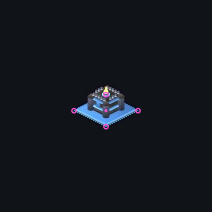
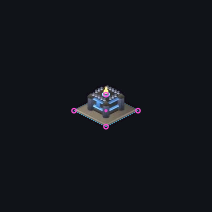
Make the foundation stone with a thin team rim, not a team-coloured slab
Review of the building-alignment pass: "The team-tinted footings are now large saturated blue pads that
dominate the base. Keep team color readable, but make it a thin trim or banner on the footing, not a full
bright slab. The ground stone should stay neutral."

That was an over-correction on my part. Tinting the whole upper course kept ownership legible but made
the largest lit surface on a tower a saturated pad, so a building read as "a blue pad with a tower on it".

plinth() and roundPlinth() now build: full-footprint STONE course, a stone step above it, and a narrow
team rim inset on the step's top face (~8% of the footing's area, proud enough to catch the key light).
The bespoke summoning-circle and thorn-grove footings got the same treatment.

Measured share of the ground-contact band (lowest 30% of the sprite) that is saturated team colour:
  14 of 21 buildings   0.0%   (plain neutral stone)
  the 7 with a rim     6.9-21.4%
  the rejected version 60%+

Team colour is still readable, which is the other half of the requirement: art-roster.test.ts requires
>=3% visible team colour per building and all 21 pass.

THIS SURFACED A REAL ART BUG the slab had been masking. scrying_obelisk's team rings had radius 8.2 while
its monolith has circumradius 8.4, so they were buried INSIDE the stone and only showed because the plinth
underneath was tinted. With the plinth neutral its visible team colour fell to 1.0% and the roster test
[…]

Changed region(s): [[0.3396, 0.4811, 0.6509, 0.5943]]

diff --git a/v2/tests/art-footing.test.ts b/v2/tests/art-footing.test.ts
@@ -1,0 +1,144 @@
+// TEAM COLOUR IS A MARKER ON THE FOUNDATION, NOT THE MATERIAL OF IT.
+//
+// Review of the building-alignment pass: "The team-tinted footings are now large saturated blue pads that
+// dominate the base. Keep team color readable, but make it a thin trim or banner on the footing, not a
+// full bright slab. The ground stone should stay neutral."
+//
+// That was a real over-correction. Making the whole upper course team-tinted kept ownership legible but
+// turned the largest lit surface on a tower into a saturated slab, so the building read as "a blue pad
+// with a tower on it". The foundation is now neutral stone with a thin team rim inset on top.
+//
+// These tests pin BOTH halves of the requirement, because either one alone can be satisfied by breaking
+// the other: the footing must be mostly neutral, AND the building must still show enough team colour to
+// tell whose it is at default zoom (the ≥3% assertion lives in `art-roster.test.ts`).
+import { describe, expect, it } from 'vitest';
+import { readFileSync, readdirSync } from 'node:fs';
+import { join } from 'node:path';
+import { rasterise } from '../art/raster2';
+import { ROSTER_BUILDINGS } from '../art/roster';
+import { TERRAIN_MATCH_PITCH, TERRAIN_MATCH_YAW } from '../art/bake-camera';
+
+const ROOT = join(__dirname, '..');
+const SIZE = 120;
+/** A strong team-blue, so any tinted footing is unmistakable. */
+const TEAM: [number, number, number] = [79, 157, 255];
+
+/** Declared footprints, so the test only covers buildings (mana_node is a map resource). */
+function buildingIds(): string[] {
+  const ids: string[] = [];
+  for (const f of readdirSync(join(ROOT, 'data/buildings'))) {
+    ids.push((JSON.parse(readFileSync(join(ROOT, 'data/buildings', f), 'utf8')) as { id: string }).id);
+  }
+  return ids.sort();
+}
+
+interface FootingStats {
+  /** Share of the footing band's pixels that read as saturated team colour. */
+  teamPct: number;
+  /** Pixels in the analysed band, so a degenerate render cannot pass vacuously. */
+  pixels: number;
+}
+
+/**
+ * Measure the footing band: the lowest 30% of the sprite, which is the ground-contact courses.
+ *
+ * Measuring the whole sprite would be wrong — a building's team bands sit high on the shaft, and those are
+ * exactly what must stay. The question here is only what colour the GROUND CONTACT is.
+ */
+function footingStats(asm: (typeof ROSTER_BUILDINGS)[string]): FootingStats {
+  const r = rasterise(asm, {
+    width: SIZE,
+    height: SIZE,
+    yaw: TERRAIN_MATCH_YAW,
+    pitch: TERRAIN_MATCH_PITCH,
+    scale: 1,
+    offsetX: 0,
+    offsetY: 0,
+    exposure: 1,
+    ss: 1,
+    outline: false,
+    shadow: false,
+    teamColor: TEAM,
+  });
+  let minY = Infinity;
+  let maxY = -Infinity;
+  for (let y = 0; y < SIZE; y++) {
+    for (let x = 0; x < SIZE; x++) {
+      if (r.rgba[(y * SIZE + x) * 4 + 3]! > 200) {
+        if (y < minY) minY = y;
+        if (y > maxY) maxY = y;
+      }
+    }
+  }
+  const bandTop = Math.round(maxY - (maxY - minY) * 0.3);
+  let team = 0;
+  let pixels = 0;
+  for (let y = bandTop; y <= maxY; y++) {
+    for (let x = 0; x < SIZE; x++) {
+      const i = (y * SIZE + x) * 4;
+      if (r.rgba[i + 3]! < 200) continue;
+      pixels++;
+      const R = r.rgba[i]!;
+      const G = r.rgba[i + 1]!;
+      const B = r.rgba[i + 2]!;
+      const mx = Math.max(R, G, B);
+      const mn = Math.min(R, G, B);
+      const sat = mx === 0 ? 0 : (mx - mn) / mx;
+      // Blue-dominant AND saturated: a neutral stone tinted by the team is not blue-dominant.
+      if (B > R + 18 && B > G + 8 && sat > 0.3) team++;
+    }
+  }
+  return { teamPct: (team / Math.max(1, pixels)) * 100, pixels };
+}
+
+describe('team colour is a trim on the foundation, not a slab', () => {
+  const ids = buildingIds();
+
+  it.each(ids)('%s: ground contact is neutral stone, not a saturated pad', (id) => {
+    const asm = ROSTER_BUILDINGS[id];
+    expect(asm, `${id} has no art`).toBeDefined();
+    const s = footingStats(asm!);
+    // A sanity floor: if the band rendered almost nothing, the ratio would be meaningless.
+    expect(s.pixels, `${id}: footing band is empty, the ratio is not measurable`).toBeGreaterThan(32);
+    /**
+     * 25% is the line between "a rim" and "a slab".
+     *
+     * A thin rim inset on the footing measures 7-21% of this band (the band includes the building's own
+     * body above the rim, which is neutral). Tinting the whole upper course measured 60%+ and is what the
+     * review rejected. Anything above a quarter of the ground contact being saturated team colour is the
+     * regression this guards.
+     */
+    expect(
+      s.teamPct,
+      `${id}: ${s.teamPct.toFixed(1)}% of its ground-contact pixels are saturated team colour — that is a slab, not a rim`,
+    ).toBeLessThanOrEqual(25);
+  });
+
+  it('the footing helpers do not tint their structural courses', () => {
+    // A structural read of the same rule: the source must not paint the full-footprint course with a team
+    // material. This catches a regression even if a future shape change happens to hide the tint.
+    const src = readFileSync(join(ROOT, 'art/shapes.ts'), 'utf8');
+    const plinthStart = src.indexOf('export function plinth(');
+    const plinthEnd = src.indexOf('export function roundPlinth(');
+    const roundEnd = src.indexOf('/**\n * A splayed tripod');
+    expect(plinthStart, 'plinth() not found').toBeGreaterThan(-1);
+    expect(plinthEnd, 'roundPlinth() not found').toBeGreaterThan(-1);
+    expect(roundEnd, 'end of roundPlinth() not found').toBeGreaterThan(-1);
+
+    for (const [name, body] of [
+      ['plinth', src.slice(plinthStart, plinthEnd)],
+      ['roundPlinth', src.slice(plinthEnd, roundEnd)],
+    ] as const) {
+      // The FULL-footprint course (`bbox(w, w, ...)`) must be stone. Only the inset course may be team.
+      const fullFootprintLines = body
+        .split('\n')
+        .filter((l) => /bbox\(\s*w\s*,\s*w\s*,/.test(l));
+      expect(fullFootprintLines.length, `${name}: no full-footprint course found`).toBeGreaterThan(0);
+      for (const line of fullFootprintLines) {
+        expect(line, `${name}: the full-footprint course must be stone, not team-tinted`).not.toMatch(/Team/);
+      }
+      // And there must BE a team rim, or the fix would have traded one bug for another.
+      expect(body, `${name}: the team rim was removed entirely`).toMatch(/PAL\.(trimTeam|runeTeam)/);
+    }
+  });
+});

diff --git a/v2/art/shapes.ts b/v2/art/shapes.ts
@@ -55,14 +55,24 @@ export const TILE_WORLD = 32;
 export function plinth(footprint: number, h = 3.0): Part[] {
   const w = footprint * TILE_WORLD;
   return [
-    // Lower course fills the footprint exactly, corner to corner.
-    part(bbox(w, w, h * 0.55, 1.6, 0.94), [0, 0, 0], PAL.rockDeep),
     /**
-     * Upper course stepped in, so the foundation reads as two courses — and TEAM-TINTED, because it is
-     * the largest lit surface on a squat building. A neutral foundation of this size reads as unclaimed
-     * stone and swamps the small team bands higher up, so ownership becomes unreadable at default zoom.
+     * NEUTRAL STONE FOUNDATION, with the team colour as a THIN RIM.
+     *
+     * An earlier pass made the whole upper course team-tinted to keep ownership readable. Measured on
+     * screen, that turned the foundation into a large saturated slab — on a 2x2 tower the footing is the
+     * biggest single surface in the frame, so the building read as "a blue pad with a tower on it" rather
+     * than stone founded on the ground. Team colour is a marker, not a material.
+     *
+     * The structure is now: full-footprint stone footing, a stone step above it, and a narrow team rim
+     * inset from the edge. The rim is ~8% of the footing's area but sits proud where the key light hits,
+     * so it stays legible at default zoom while the ground contact stays stone-coloured.
      */
-    part(bbox(w - 2.5, w - 2.5, h, 1.4, 0.96), [0, 0, h * 0.36], PAL.trimTeam),
+    // Full footprint, corner to corner: this is what meets the tile edges.
+    part(bbox(w, w, h * 0.55, 1.6, 0.94), [0, 0, 0], PAL.rockDeep),
+    // Stone step, so the foundation reads as two courses.
+    part(bbox(w - 2.5, w - 2.5, h * 0.9, 1.4, 0.96), [0, 0, h * 0.34], PAL.rock),
+    // Thin team rim, inset on the step's top face.
+    part(bbox(w - 6.0, w - 6.0, h * 0.24, 1.0, 0.99), [0, 0, h * 0.52], PAL.trimTeam),
   ];
 }
 
@@ -84,20 +94,21 @@ export function roundPlinth(footprint: number, h = 3.0): Part[] {
   const r = w / 2;
   return [
     /**
-     * Square footing: corner to corner on the footprint, so the base meets the tile edges.
+     * Square STONE footing, corner to corner on the footprint so the base meets the tile edges.
      *
-     * This course is TEAM-TINTED rather than plain rock. It is the largest single surface on a round
-     * tower — thousands of pixels of ground contact — so leaving it neutral made the whole building read
-     * as unclaimed stone and dropped the visible team-colour share on the round roster from ~4-7% to
-     * under 1%. A foundation course in the owner's colour is also just the correct read: it is how a
-     * player tells whose tower they are looking at from the default zoom.
+     * The team colour is a THIN RIM here, not the whole slab. Tinting the entire footing was the
+     * previous attempt at keeping ownership readable, and it produced exactly the complaint it earned:
+     * on a round tower the footing is the largest lit surface in frame, so the building read as a bright
+     * blue pad with a tower standing on it. Stone stays stone; the rim carries the colour.
      */
-    part(bbox(w, w, h * 0.45, 1.6, 0.96), [0, 0, 0], PAL.runeTeam),
-    // A rock band above it, so the team colour reads as a rim on a stone foundation rather than a plinth
-    // made of glowing metal.
-    part(bbox(w - 3.0, w - 3.0, h * 0.22, 1.4, 0.97), [0, 0, h * 0.44], PAL.rockDeep),
+    part(bbox(w, w, h * 0.45, 1.6, 0.96), [0, 0, 0], PAL.rockDeep),
+    // Stone step, so the foundation reads as two courses.
+    part(bbox(w - 3.0, w - 3.0, h * 0.34, 1.4, 0.97), [0, 0, h * 0.40], PAL.rock),
+    // Thin team rim on the step's top face: ~8% of the footing's area, and proud enough to catch the key
+    // light so the owner is readable at default zoom.
+    part(bbox(w - 7.0, w - 7.0, h * 0.2, 1.0, 0.99), [0, 0, h * 0.62], PAL.trimTeam),
     // Round drum above it, inscribed in the same square.
-    part(cyl(r - 1.0, r - 2.0, h, 12), [0, 0, h * 0.30], PAL.rock),
+    part(cyl(r - 2.0, r - 3.0, h, 12), [0, 0, h * 0.70], PAL.rock),
   ];
 }
 

diff --git a/v2/art/roster2.ts b/v2/art/roster2.ts
@@ -607,12 +607,14 @@ function scryingObelisk(): Assembly {
   const parts: Part[] = [...plinth(2, 2.6)];
   parts.push(part(prism(8.4, 34.0, 4), [0, 0, 2.6], PAL.violetDeep, { rotZ: Math.PI / 4 }));
   parts.push(part(prism(9.0, 1.4, 4), [0, 0, 4.0], PAL.brass, { rotZ: Math.PI / 4 }));
-  // TEAM MARKER: the monolith is a 4-sided prism 8.4 across, so a band "around" it at radius 6.6 was
-  // still buried inside the taper. These rings are deliberately OVERSIZED (radius 7.6 at the widest
-  // point, and a flared collar at the top) so they stand proud of the stone and are visible from above.
-  parts.push(part(cyl(8.2, 7.6, 3.0, 4), [0, 0, 14.0], PAL.trimTeam, { rotZ: Math.PI / 4 }));
-  parts.push(part(cyl(7.6, 7.0, 2.8, 4), [0, 0, 25.0], PAL.runeTeam, { rotZ: Math.PI / 4 }));
-  parts.push(part(cyl(7.4, 5.6, 2.4, 10), [0, 0, 34.0], PAL.trimTeam));
+  // TEAM MARKER: the monolith is a 4-sided prism with circumradius 8.4, so a band at radius 6.6 or even
+  // 8.2 sits INSIDE the stone and never shows. (The old comment claimed these rings were oversized; they
+  // were smaller than the prism they wrapped, which is why `scrying_obelisk` measured 1.0% visible team
+  // colour once the plinth stopped carrying a tinted slab.) These now clear the prism's circumradius and
+  // read as collars standing proud of the shaft from above.
+  parts.push(part(cyl(10.6, 10.0, 3.0, 4), [0, 0, 14.0], PAL.trimTeam, { rotZ: Math.PI / 4 }));
+  parts.push(part(cyl(9.8, 9.2, 2.8, 4), [0, 0, 25.0], PAL.runeTeam, { rotZ: Math.PI / 4 }));
+  parts.push(part(cyl(9.4, 7.2, 2.4, 10), [0, 0, 34.0], PAL.trimTeam));
   parts.push(part(bbox(1.6, 2.0, 20.0, 0.6), [0, -5.4, 8.0], PAL.crystalDeep));
   // the floating eye: two opposed cones forming an almond, with a hot iris
   for (const s of [-1, 1] as const) {
@@ -840,12 +842,13 @@ function thornGrove(): Assembly {
    * A low, square footing spans the full 2x2 footprint and gives the tendrils something to grow out of
    * that visibly meets the ground.
    *
-   * It is TEAM-TINTED moss rather than plain earth: the footing is now the largest surface on the model,
-   * and neutral earth made the grove read as unclaimed scenery. Ownership has to be legible at default
-   * zoom, and the ground the grove grows out of is the natural place to show it.
+   * It is now NEUTRAL EARTH with a thin team rim. Tinting the whole slab kept ownership readable but
+   * turned the grove's ground into a saturated pad that dominated the model — the ground a building
+   * stands on should read as ground, with the colour carried by a narrow inset band on top of it.
    */
-  parts.push(part(bbox(64.0, 64.0, 1.8, 2.0, 0.98), [0, 0, 0], PAL.runeTeam));
-  parts.push(part(cyl(28.0, 27.0, 1.4, 16), [0, 0, 1.6], PAL.rockMoss));
+  parts.push(part(bbox(64.0, 64.0, 1.8, 2.0, 0.98), [0, 0, 0], PAL.rockDeep));
+  parts.push(part(bbox(56.0, 56.0, 0.5, 1.4, 0.99), [0, 0, 1.8], PAL.trimTeam));
+  parts.push(part(cyl(28.0, 27.0, 1.4, 16), [0, 0, 2.1], PAL.rockMoss));
   // tangled body: overlapping flattened spheres, deliberately uneven
   for (const [x, y, z, r] of [
     [0, 0, 5.0, 7.4],

diff --git a/v2/docs/proof/phase-5/leftovers/README.md b/v2/docs/proof/phase-5/leftovers/README.md
@@ -1,0 +1,99 @@
+# Phase 5 leftovers — proof
+
+Four issues found reviewing the Phase 4 building-alignment proofs. Each has a commit, a measurement, and
+a gate that was verified by reintroducing the bug.
+
+## (a) Zoom controls covered the Research button
+
+| Viewport | Before | After |
+|---|---|---|
+| phone 667x375 | zoom overlaps Research by **54 × 25 px** | **0** overlap |
+| phone-landscape 844x390 | 54 × 25 px | 0 |
+| chromebook 1024x600 | 68 × 32 px | 0 |
+| desktop 1366x768 | 68 × 32 px | 0 |
+
+**Cause.** `hud.ts` appended the zoom widget to `.hud-cmd__grid` *and* to `.hud-cmd`. `append` moves a
+node, so it silently left the grid and became an absolutely-positioned child of the band pinned to
+`right: 6px; bottom: 2px`, floating over whatever was beneath it. The grid still reserved `auto auto`
+trackers for it, which is why the six command cells stretched and the missing cell went unnoticed.
+
+**Fix.** Append it once. The CSS is a normal flex row in its own grid column (`position: static`), so
+layout — not z-order — decides where it goes. Every density reserves a tracker for it.
+
+**Why the gate missed it.** The overlap check skips any pair where one node *contains* the other, because
+zone frames legitimately nest (the selection segment lives inside the top bar). Every control in the band
+is a descendant of `.hud-cmd`, so a button covering a button was invisible to it. The gate now re-runs the
+intersection test over every **interactive** element, ignoring ancestry entirely.
+
+Verified by restoring the double-append: fails with `control Zoom in / control Research` and the zoom
+buttons reported as overflowing the viewport.
+
+Proof: [`a-cmdbar-phone.png`](a-cmdbar-phone.png) ·
+[`a-cmdbar-phone-landscape-wide.png`](a-cmdbar-phone-landscape-wide.png) ·
+[`a-cmdbar-chromebook.png`](a-cmdbar-chromebook.png) ·
+[`a-cmdbar-desktop.png`](a-cmdbar-desktop.png)
+
+## (b) Research tree's 4th column clipped on Chromebook
+
+Measured on 1024×600: a **564 px** graph viewport holding a **1180 px** tree, so Doctrine was cut **380 px**
+short with "every tower" sliced mid-sentence.
+
+| Viewport | Before (graph vs viewport) | After |
+|---|---|---|
+| phone 667x375 | 972 vs 651 — 2 columns cut | **fits** |
+| phone-landscape 844x390 | 972 vs 828 — 1 column cut | **fits** |
+| chromebook 1024x600 | 1180 vs 564 — 3 columns cut | **fits** |
+| desktop 1366x768 | 1180 vs 906 — 2 columns cut | **fits** |
+
+After the fix all four report `scrollWidth <= clientWidth`, **0 of 24** research names overflow their box,
+and **0** elements extend past the viewport edge.
+
+**Three causes.** `.research-body` gave the unlock panel a flat 300–400 px at every density above compact;
+tier columns had a hard 230 px floor (190 px at compact), so five tiers demanded ~1.2 k; and the compact
+override re-pinned 190 px, overriding any fitting logic.
+
+**Fix.** The unlock panel is `minmax(220px, 300px)`, and the tier floor is *measured* from the real scroll
+viewport and divided by the tier count, so all five tiers fit. Re-measured through a `ResizeObserver` so
+rotating a device re-fits. Node titles wrap at word boundaries with a smaller font at compact density,
+instead of breaking mid-syllable ("Resonanc/e").
+
+**Why the gate missed it.** `?screen=research` is not a route — the tree is an **overlay** opened from the
+HUD — so the whole-screen cleanliness pass never rendered it. And the HUD clipping walk compared only
+`top`/`bottom` against clipping ancestors, never `left`/`right`, so horizontal clipping was invisible by
+construction. There is now a dedicated gate that opens the real overlay at all four viewports.
+
+Verified by restoring the 190 px floor: fails with `Doctrine extends 127px past the graph viewport` and
+`"Arcane Resonance" is sliced at the graph edge`.
+
+Proof: [`b-research-phone.png`](b-research-phone.png) ·
+[`b-research-phone-landscape-wide.png`](b-research-phone-landscape-wide.png) ·
+[`b-research-chromebook.png`](b-research-chromebook.png) ·
+[`b-research-desktop.png`](b-research-desktop.png)
+
+## (c) Team-tinted footings were saturated slabs
+
+The previous pass tinted the whole upper course to keep ownership readable, which turned the largest lit
+surface on a tower into a bright pad. The foundation is now neutral stone with a thin team rim inset on top.
+
+Measured share of the **ground-contact band** (lowest 30% of the sprite) that is saturated team colour:
+
+| | Result |
+|---|---|
+| 14 of 21 buildings | **0.0%** — plain neutral stone |
+| the 7 with a rim | **6.9 – 21.4%** |
+| the rejected version | **60%+** |
+
+Team colour is still readable: `art-roster.test.ts` requires every building to show **≥3%** team colour on
+screen, and all 21 pass. `art-footing.test.ts` asserts the footing band is **≤25%** saturated team colour
+for every building, that the full-footprint course in `plinth`/`roundPlinth` is never painted with a team
+material, and that a team rim still exists. Verified by tinting the full-footprint course again — fails with
+"the full-footprint course must be stone, not team-tinted".
+
+**A real art bug this surfaced.** `scrying_obelisk`'s team rings had radius 8.2 while its monolith has
+circumradius 8.4, so they were **buried inside the stone** and only appeared because the plinth underneath
+was tinted. Once the plinth went neutral its visible team colour fell to **1.0%** and the roster test
+caught it. The rings are now radius 10.6 and stand proud.
+
+Proof: [`c-teamtrim-chromebook.png`](c-teamtrim-chromebook.png) ·
+[`c-teamtrim-desktop.png`](c-teamtrim-desktop.png) ·
+[`c-teamtrim-phone.png`](c-teamtrim-phone.png)
